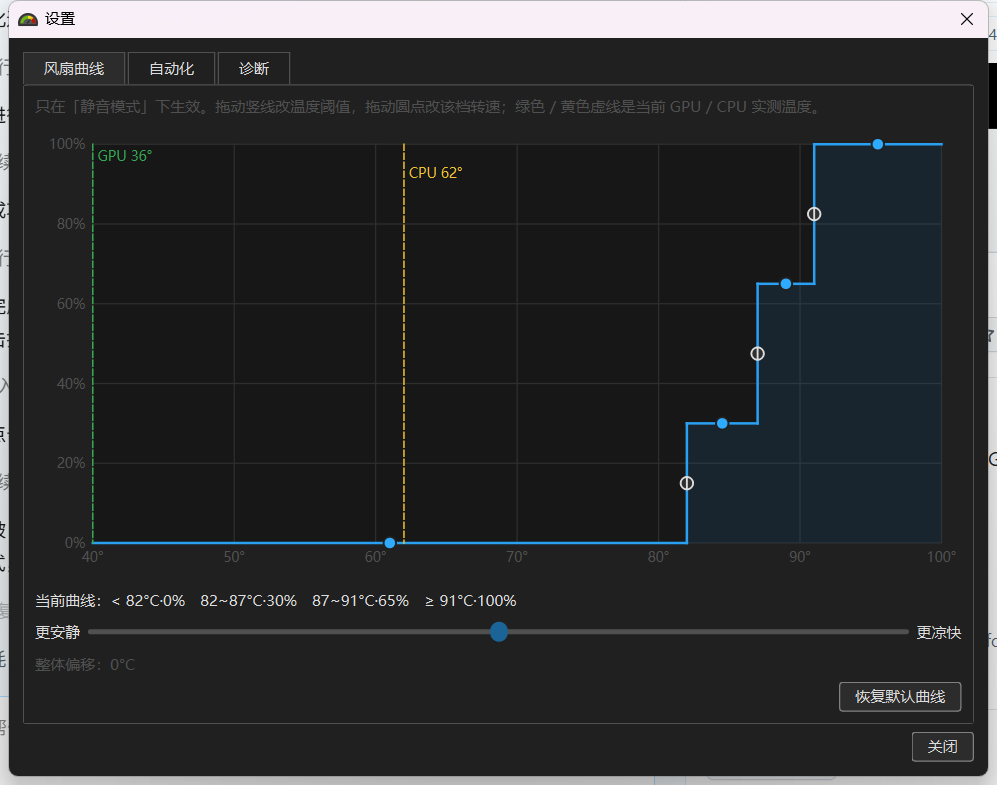
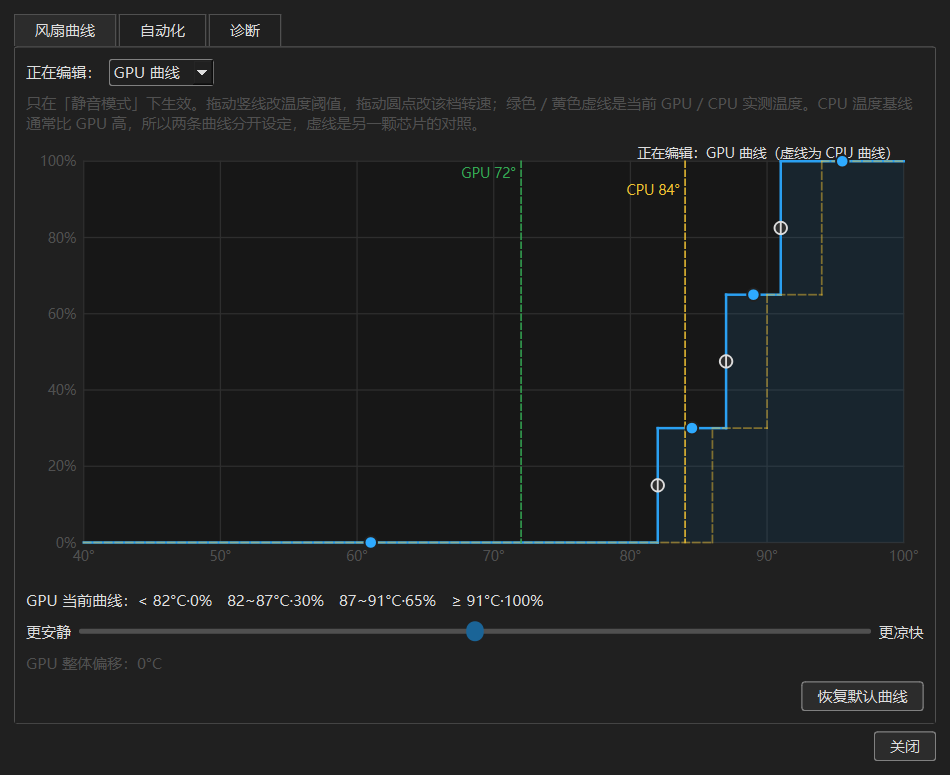
README: 更新曲线编辑器与诊断页截图

diff --git a/README.md b/README.md
@@ -37,6 +37,8 @@ Dell G 系列 / Alienware 笔记本出厂自带的 AWCC（Alienware Command Cent
 
 ### 风扇曲线
 
+![风扇曲线编辑器](screenshots/curve-editor.png)
+
 **GPU 和 CPU 各有一条独立曲线**，用下拉框切换正在编辑的那条，另一条以黄色虚线画在图上作为对照。
 两条曲线分开设定是因为同一颗芯片的 CPU 温度基线通常比 GPU 高 6~10°C，
 共用一条曲线会让 CPU 长期顶在最高档、把风扇一路拉满，静音效果直接被吃掉。
@@ -63,6 +65,8 @@ Dell G 系列 / Alienware 笔记本出厂自带的 AWCC（Alienware Command Cent
 手动切换模式会覆盖自动化：如果游戏运行时你手动换了个模式，退出游戏后就不会被改回去。
 
 ### 诊断
+
+![温度历史](screenshots/history-diagnostics.png)
 
 - 温度与转速历史曲线（环形缓冲，约 30 分钟），可导出 CSV
 - 传感器总览。扫描结果里会显示全部有读数的传感器 ID —— 本机除 CPU/GPU 两路外，
